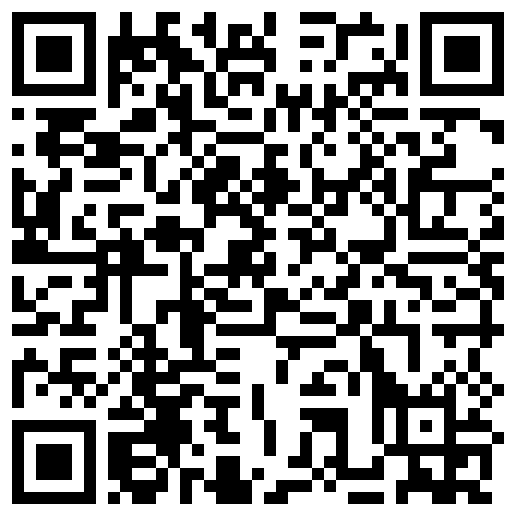
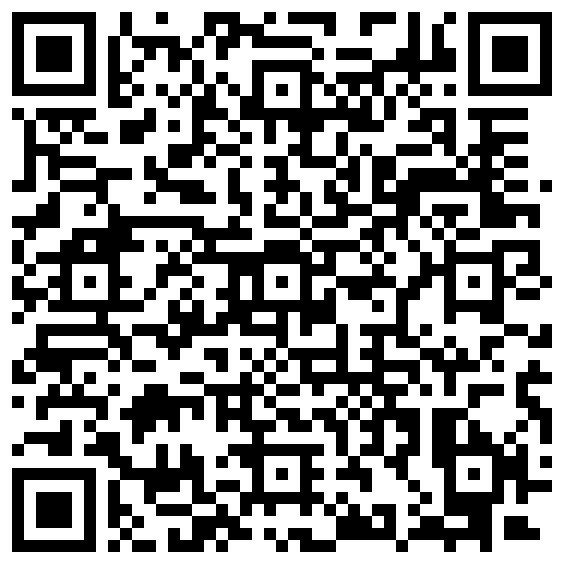
v1.3.2: tira a cidade do Pix e dos créditos

diff --git a/app/DiscoLivre.swift b/app/DiscoLivre.swift
@@ -95,9 +95,9 @@ enum Instalador {
 
 enum Pix {
     static let chave = "c6a0d335-775a-4a2e-bb7a-2dfbf3f2cb67"
-    static let nome = "Willian Claf · Brusque/SC"
+    static let nome = "Willian Claf"
     /// BR Code (padrão do Banco Central), valor livre
-    static let copiaECola = "00020126580014br.gov.bcb.pix0136c6a0d335-775a-4a2e-bb7a-2dfbf3f2cb675204000053039865802BR5912WILLIAN CLAF6007BRUSQUE62070503***63042C0D"
+    static let copiaECola = "00020126580014br.gov.bcb.pix0136c6a0d335-775a-4a2e-bb7a-2dfbf3f2cb675204000053039865802BR5912WILLIAN CLAF6014SANTA CATARINA62070503***6304C34D"
 
     static func qr() -> NSImage? {
         guard let f = CIFilter(name: "CIQRCodeGenerator") else { return nil }

diff --git a/README.md b/README.md
@@ -183,9 +183,9 @@ O Disco Livre é **grátis e vai continuar grátis**. Se ele te ajudou, me paga 
 
 **Pix Copia e Cola:**
 ```
-00020126580014br.gov.bcb.pix0136c6a0d335-775a-4a2e-bb7a-2dfbf3f2cb675204000053039865802BR5912WILLIAN CLAF6007BRUSQUE62070503***63042C0D
+00020126580014br.gov.bcb.pix0136c6a0d335-775a-4a2e-bb7a-2dfbf3f2cb675204000053039865802BR5912WILLIAN CLAF6014SANTA CATARINA62070503***6304C34D
 ```
-Chave Pix: `c6a0d335-775a-4a2e-bb7a-2dfbf3f2cb67` · Willian Claf · Brusque/SC
+Chave Pix: `c6a0d335-775a-4a2e-bb7a-2dfbf3f2cb67` · Willian Claf
 
 Também dá pra apoiar pelo app (☕ no rodapé) ou no Terminal: `disco-livre apoiar`.
 
